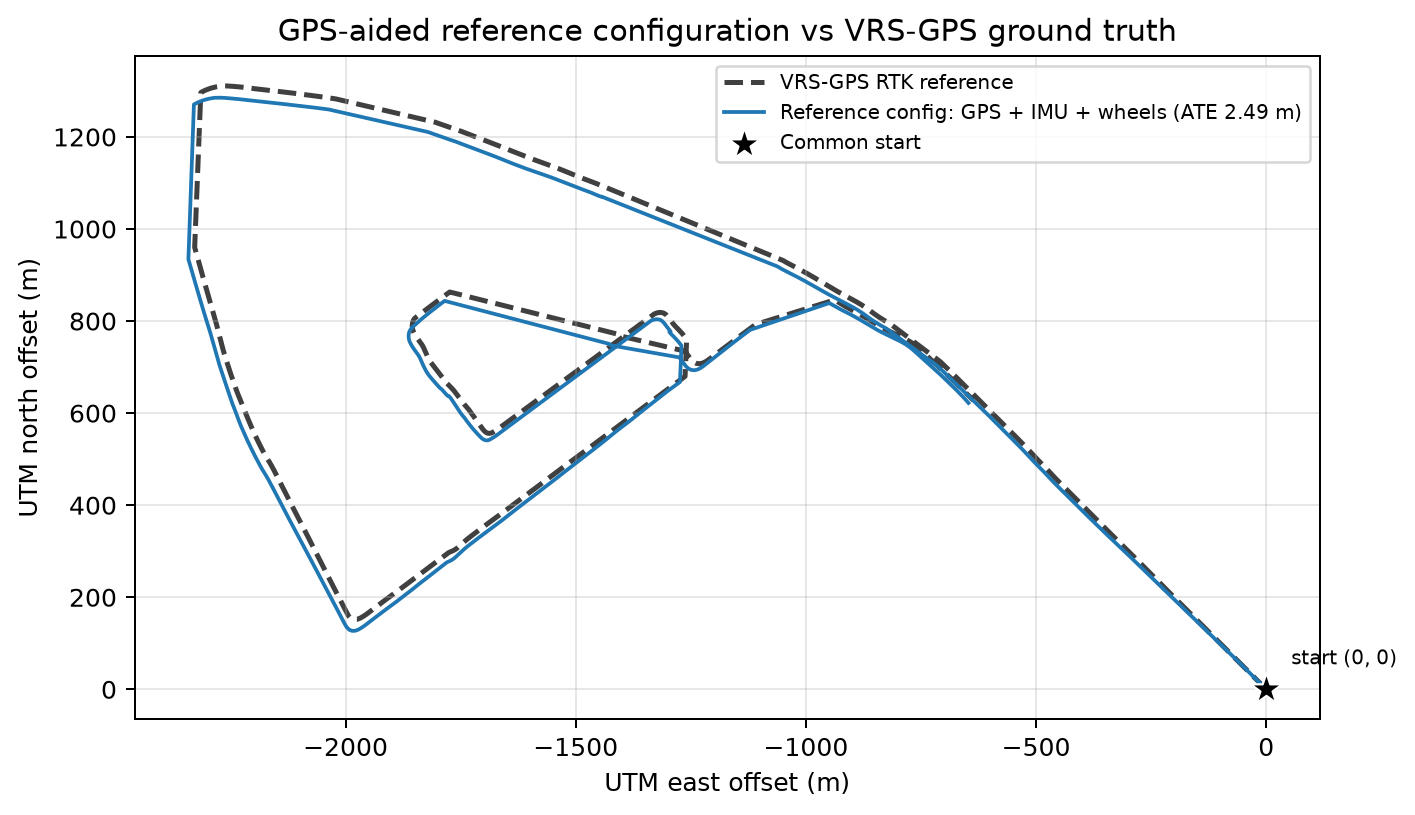
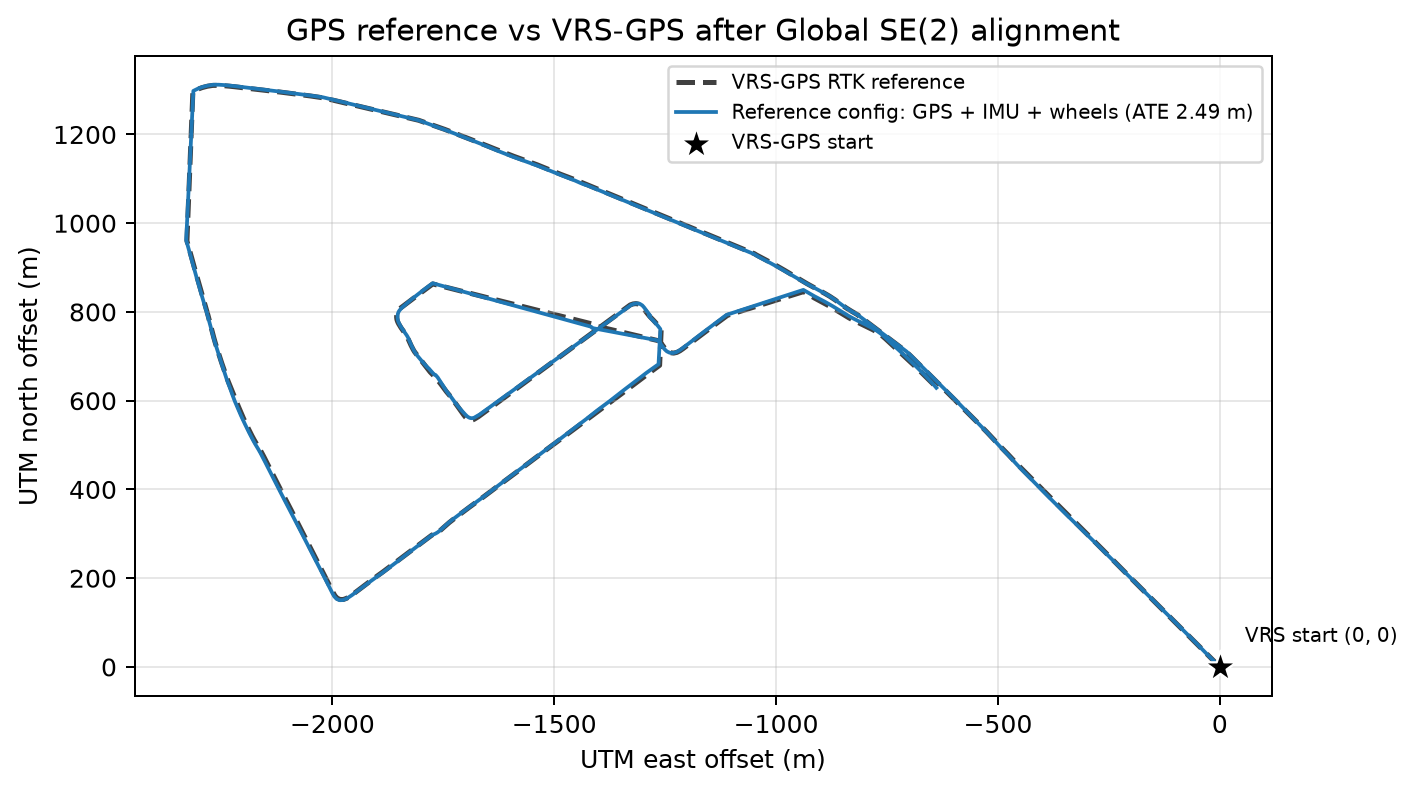
Align trajectory plots with reported SE2 ATE

diff --git a/src/evaluation/visualization.py b/src/evaluation/visualization.py
@@ -82,7 +82,7 @@ def _save_trajectory_comparison(
         if name not in evaluations:
             continue
         result = evaluations[name]
-        estimate = result.start_aligned_xy_m - origin
+        estimate = result.aligned_xy_m - origin
         axis.plot(
             estimate[:, 0],
             estimate[:, 1],
@@ -101,10 +101,10 @@ def _save_trajectory_comparison(
         edgecolor="white",
         linewidth=0.9,
         zorder=10,
-        label="Common start",
+        label="VRS-GPS start",
     )
     axis.annotate(
-        "start (0, 0)",
+        "VRS start (0, 0)",
         (0.0, 0.0),
         xytext=(10, 10),
         textcoords="offset points",
@@ -174,19 +174,19 @@ def save_comparison_plots(
         evaluations,
         ("gps",),
         output_directory / "trajectory_gps_reference.png",
-        "GPS-aided reference configuration vs VRS-GPS ground truth",
+        "GPS reference vs VRS-GPS after Global SE(2) alignment",
     )
     _save_trajectory_comparison(
         evaluations,
         ("vio",),
         output_directory / "trajectory_vio.png",
-        "GPS-denied VIO vs VRS-GPS ground truth",
+        "GPS-denied VIO vs VRS-GPS after Global SE(2) alignment",
     )
     _save_trajectory_comparison(
         evaluations,
         ("gps_dropout", "gps_sparse"),
         output_directory / "trajectory_degraded_gps.png",
-        "Degraded GPS availability vs VRS-GPS ground truth",
+        "Degraded GPS modes after Global SE(2) alignment",
     )
     _save_error_comparison(evaluations, output_directory / "error_over_time.png")
     _save_rmse_comparison(evaluations, output_directory / "rmse_comparison.png")

diff --git a/results/conclusions.md b/results/conclusions.md
@@ -7,6 +7,18 @@ VRS-GPS із `vrs_gps.csv` не входить у жоден estimator і вик
 ground truth. Primary metric — 2D ATE RMSE після rigid SE(2) alignment без
 scale fit. Initial-pose RMSE додатково показує накопичення помилки напряму.
 
+На trajectory графіках пунктир показує реальну VRS-GPS RTK reference
+траєкторію. Кольорова estimate траєкторія показана після Global SE(2) alignment,
+тобто після одного оптимального повороту та зміщення за всіма matched reference
+точками. Scale не змінюється. Саме для цього вирівнювання в легенді наведено
+`ATE`. Воно описує схожість форми траєкторії після offline суміщення і не є
+точністю online локалізації.
+
+Initial-pose RMSE є суворішим для оцінки accumulated drift: суміщаються лише
+стартова точка та початковий напрям, після чого траєкторія більше не
+підлаштовується під reference. Тому, наприклад, `urban35 VIO` має Global ATE
+4.63 м, але Initial-pose RMSE 60.37 м.
+
 Порівнюються чотири конфігурації:
 
 1. **GPS reference** — IMU + wheels + усі commercial GPS measurements.

diff --git a/README.md b/README.md
@@ -166,6 +166,18 @@ gate.
 схожа на reference, але траєкторія має помилку початкового напряму або
 накопичений yaw drift.
 
+На trajectory графіках пунктирна VRS-GPS RTK лінія є реальною reference
+траєкторією. Кольорова лінія є оцінкою estimator після Global SE(2) alignment:
+до неї один раз застосовано поворот і зміщення, знайдені за всіма доступними
+reference точками. Масштаб траєкторії не змінюється. Тому число `ATE` у легенді
+відповідає видимій відстані між лініями. Це offline evaluation, а не поправка,
+доступна estimator під час руху.
+
+Initial-pose alignment використовується в окремій колонці таблиць і на RMSE
+bar chart. Він суміщає тільки старт і початковий напрям, тому краще показує
+помилку, яка накопичується від старту без post-processing за всією reference
+траєкторією.
+
 ## Результати
 
 Числові таблиці, три trajectory comparisons для кожної послідовності та

diff --git a/docs/architecture.md b/docs/architecture.md
@@ -97,6 +97,12 @@ commercial GPS; незалежний VRS-GPS лишається ground truth.
 Global ATE застосовує один rigid SE(2) alignment без scale. Initial-pose view
 вирівнює спільну стартову точку й напрям.
 
+Trajectory screenshots використовують Global SE(2)-aligned estimates, тому
+відстань між кольоровою estimate та пунктирною VRS-GPS reference відповідає ATE
+у легенді. Це offline rigid alignment за всією траєкторією. Initial-pose RMSE
+наводиться окремо в таблицях і на RMSE comparison chart, щоб показати
+накопичений drift від старту.
+
 ## Межі реалізації
 
 Це feature-level VIO для planar vehicle model. Воно вже не стискає camera data
